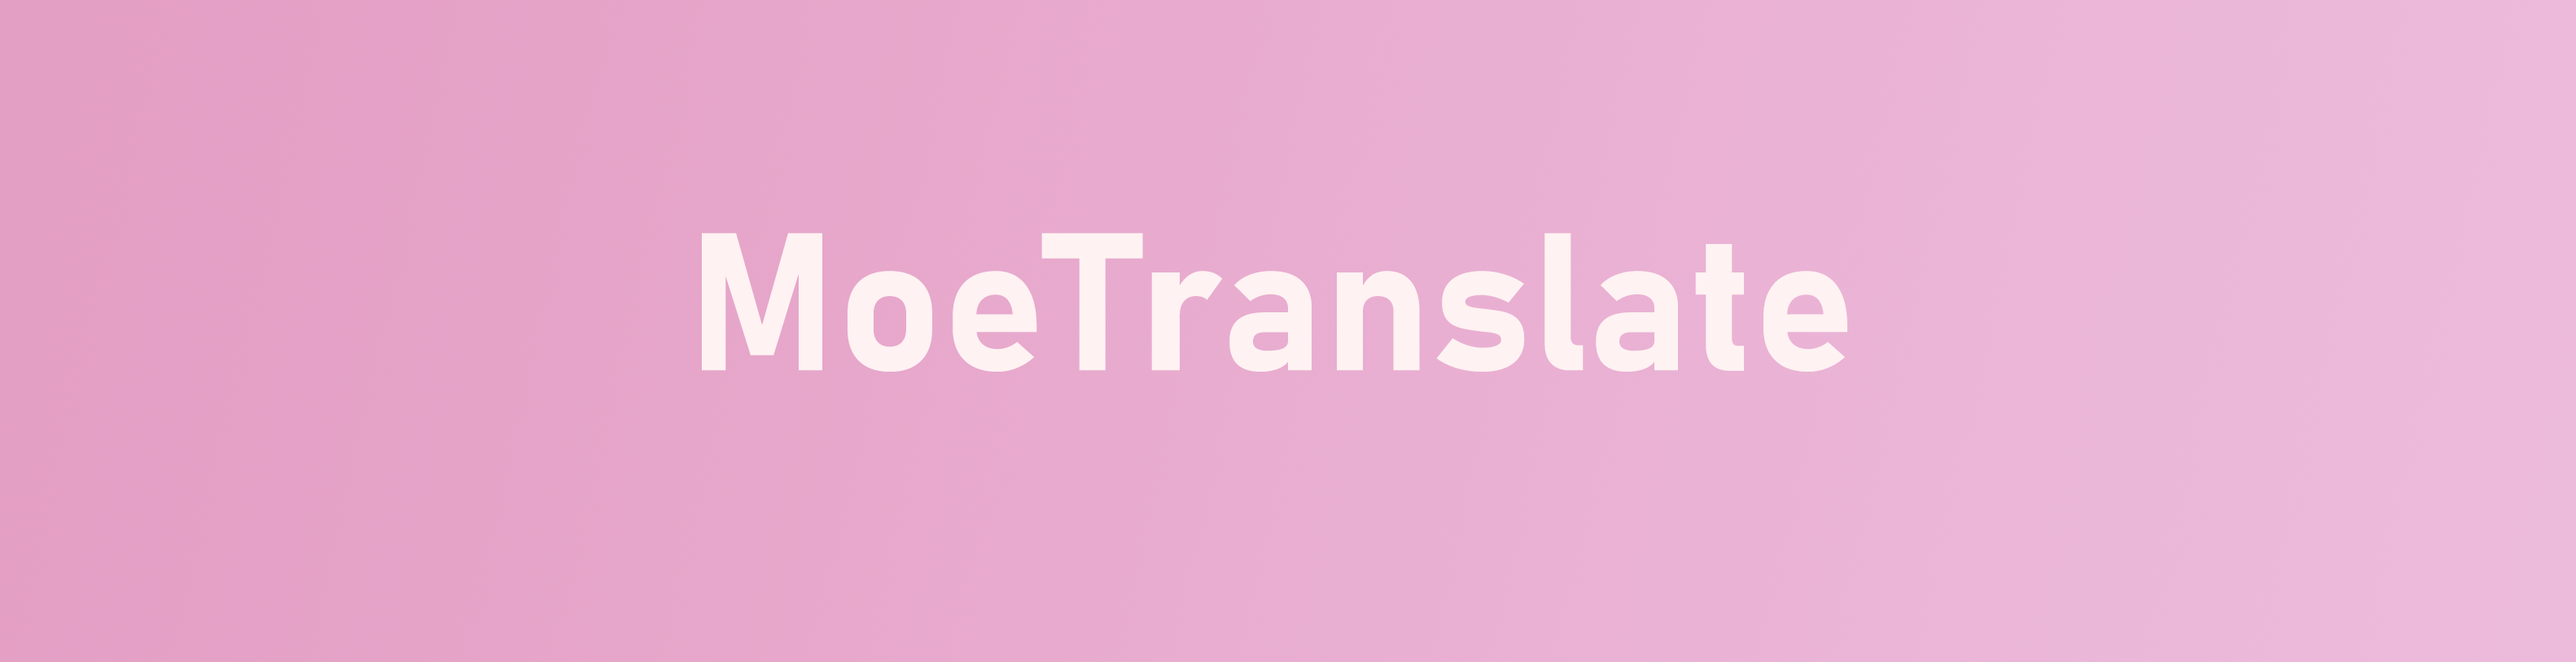
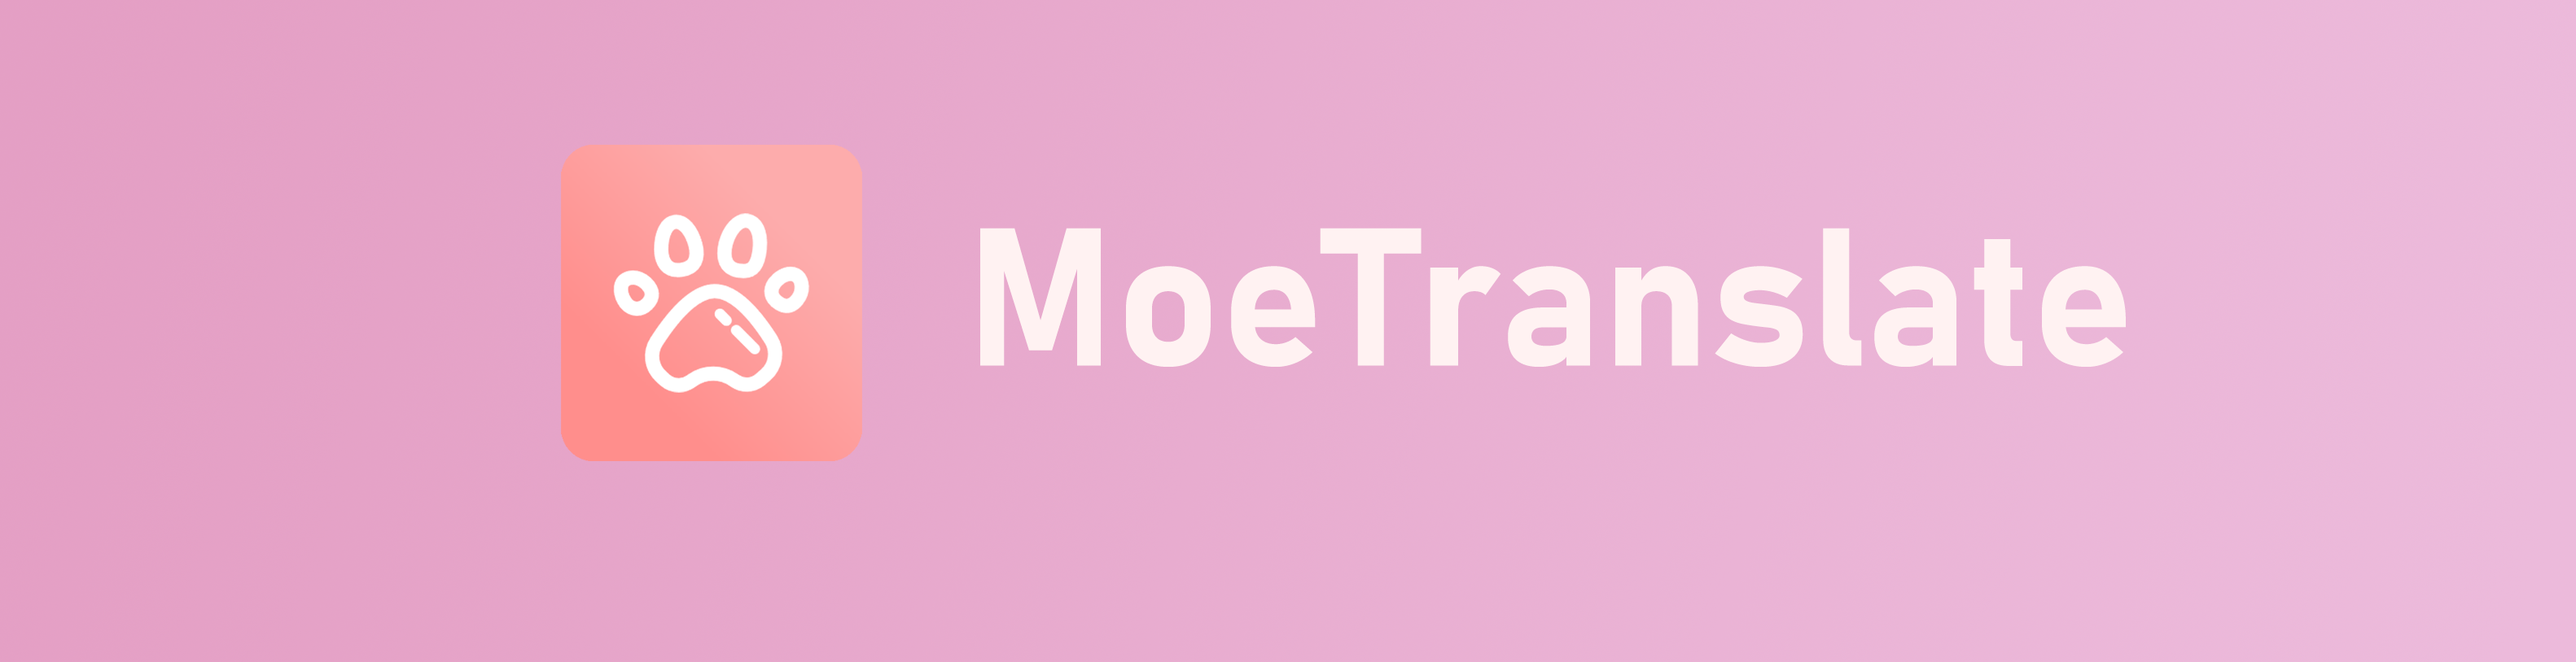
Read Me Update(Not Finish)

Changed region(s): [[0.2168, 0.215, 0.8363, 0.7064]]

diff --git a/docs/docs/.vuepress/config.ts b/docs/docs/.vuepress/config.ts
@@ -12,14 +12,14 @@ export default defineUserConfig({
   lang: 'zh-CN',
   locales: {
     '/': {
-      title: '萌译',
+      title: '萌译 - MoeTranslate',
       lang: 'zh-CN',
-      description: 'An Android Translate App.',
+      description: '一键翻译图片文字内容，让您和非中文游戏的距离不再遥远；不仅如此，还支持Gemini聊天和Live2D。',
     },
     '/en/': {
       title: 'MoeTranslate',
       lang: 'en-US',
-      description: 'An Android Translate App.',
+      description: 'One-click translation of picture text content, so that the distance between you and non-Chinese games is no longer far; Not only that, but Gemini chat and Live2D are also supported.',
     },
   },
 

diff --git a/README.md b/README.md
@@ -1,6 +1,6 @@
-<div align="center">
 <img src="markdown/images/head-cover.png" alt="icon"/>
-<h1 align="center">萌译MoeTranslate</h1>
+
+# 萌译MoeTranslate
 
 一键翻译图片文字内容，让您和非中文游戏的距离不再遥远；不仅如此，还支持Gemini聊天和Live2D。
 
@@ -12,20 +12,93 @@
 
 ## 简介
 
-萌译一款安卓端的翻译软件，基于Android 11的无障碍截图权限开发。
+萌译是一款安卓端的翻译软件，基于Android 11+的无障碍截图权限开发。
+
+<img src="markdown/images/display.png"/>
 
 支持两种模式：
 
-- **本地OCR识别+文字翻译：**通过ML Kit实现本地OCR识别，然后将识别到的文字使用特定API进行翻译。
+- **本地OCR识别+文本翻译：** 通过ML Kit实现**本地**OCR识别（支持的源语言有中文、日文、英文），然后将识别到的文字使用特定API进行翻译，获取翻译结果。
   
-- **直接上传图片进行翻译：**将截图直接上次给特定API，获取翻译结果。
+- **直接上传图片进行翻译：** 将截图直接上传给特定API，获取翻译结果，适用于源语言不是中文、日文、英文的情况。
+
+## 一、翻译功能
+
+翻译是萌译的核心功能，对于上述两种模式，分别支持不同的API，每个API的申请方法在[萌译官网](https://www.moetranslate.top/)中都有详细的教程（视频教程、图文教程）。
+
+除此之外，您还可以**自定义API接口**来进行翻译，上述两种模式均支持自定义API接口，也就是说，**您可以在局域网内的电脑上搭建您喜欢的翻译服务（如：对接GPT、搭建Sakura本地翻译模型），然后通过萌译在手机上享受这些服务带来的便利**。这种方法需要您掌握一定的编程知识和计算机网络知识，在萌译官网上有一些简易的[搭建教程](https://www.moetranslate.top/docs/translationapi/customtext/)。
+
+### 1、使用方法
+
+简易的使用方法介绍如下图所示，更详细的使用方法在您初次使用App时会有详细的介绍。
+
+<img src="markdown/images/menu.png"/>
+
+<img src="markdown/images/use.png"/>
+
+### 2、预置API介绍
+
+<img src="markdown/images/API.png"/>
+
+- **本地OCR识别+文本翻译：** 这是比较推荐的一种翻译方式，预置支持的API有：
+
+> **ML Kit翻译：** 属于本地AI翻译。除了第一次使用需下载模型（约100MB）外，其余时间可离线使用。搭配本地OCR识别，可实现全程离线翻译。值得注意的是，由于该模型体积很小，因此翻译质量较低，适合特殊情况下使用。
+翻译质量：★（1星）
+
+> **NLLB翻译：** 属于本地AI翻译。除了第一次使用需下载模型（约1GB）外，其余时间可离线使用。搭配本地OCR识别，可实现全程离线翻译。该模型相较于前者，翻译质量有所提升，支持的目标语言也更多，但受限于手机端算力，翻译质量相较于在线API差距仍然很大。
+ 翻译质量：★★（2星）
+
+> **必应翻译：** 属于在线翻译API。这是唯一一个不需要提前配置API Key即可使用的在线翻译方式。其实现原理是通过模拟浏览器访问网页的行为来实现翻译，依赖于网页结构和token提取，这是非常不规范的行为，稳定性较差。也正因为如此，萌译无法保证它随时可用。该方法翻译质量尚可，不过由于它实现方式的特殊性，还是适合特殊情况下使用。
+翻译质量：★★★★（4星）
+
+> **小牛翻译：** 属于在线翻译API。需要提前配置API Key方可使用。注册后即可享受**每天20万字符的免费调用额度**，一般用户足够使用。API申请方法也非常简单，翻译质量很高，综合考虑的不二之选。
+[申请教程](https://www.moetranslate.top/docs/translationapi/niutrans/)
+翻译质量：★★★★★（5星）
+
+> **火山引擎：** 属于在线翻译API。需要提前配置API Key方可使用。这是字节跳动旗下的翻译API，注册后即可享受**每月200万字符的免费调用额度**，一般用户足够使用。API申请方法相比小牛翻译要复杂一些，翻译质量较高。
+[申请教程](https://www.moetranslate.top/docs/translationapi/volc/)
+翻译质量：★★★★✬（4.5星）
+
+> **Azure AI 翻译：** 属于在线翻译API。需要提前配置API Key方可使用。这是微软旗下的翻译API，实际上就是必应翻译的API版，注册后即可享受**每月200万字符的免费调用额度**，一般用户足够使用。API申请方法比较复杂，翻译质量尚可。
+[申请教程](https://www.moetranslate.top/docs/translationapi/azure/)
+翻译质量：★★★★（4星）
+
+> **百度翻译：** 属于在线翻译API。需要提前配置API Key方可使用。注册后即可享受**每月100万字符的免费调用额度**，一般用户足够使用。API申请方法比较简单，翻译质量一般。
+[申请教程](https://www.moetranslate.top/docs/translationapi/baidu/)
+翻译质量：★★★✬（3.5星）
+
+> **腾讯云：** 属于在线翻译API。需要提前配置API Key方可使用。注册后即可享受**每月500万字符的免费调用额度**，免费额度很大。API申请方法稍微复杂一些，翻译质量很一般。
+[申请教程](https://www.moetranslate.top/docs/translationapi/tencent/)
+翻译质量：★★★（3星）
+
+- **直接上传图片进行翻译：** 直接把截图上传给设定的API来翻译，预置支持的API有：
+
+> **百度翻译：** 属于在线翻译API。需要提前配置API Key方可使用。注册后即可享受**每月1万次的图片翻译免费调用次数**，一般用户足够使用。API申请方法比较简单，和上面的文字翻译相比，带来的质量提升主要在OCR的精准度上。
+[申请教程](https://www.moetranslate.top/docs/translationapi/baidu/)
+翻译质量：★★★★（4星）
+
+> **腾讯云：** 属于在线翻译API。需要提前配置API Key方可使用。注册后即可享受**每月1万次的图片翻译免费调用次数**，一般用户足够使用。API申请方法稍微复杂一些，由于腾讯云的图片翻译仅支持单行翻译，因此当一句话多于一行时，会造成翻译严重不正确的情况。
+[申请教程](https://www.moetranslate.top/docs/translationapi/tencent/)
+翻译质量：★★（2星）
+
+## 二、其他功能
+
+### 1、Live 2D模型查看
+
+<img src="markdown/images/l2d.png"/>
+
+得益于[Live 2D的SDK](https://www.live2d.com/sdk/about/)，萌译支持导入Live 2D模型，并自动解析模型附带的动作和表情，然后用户可选择特定的动作和表情播放，实现随时随地欣赏Live 2D角色。
+
+具体的教程可[点击此处](https://www.moetranslate.top/docs/live2d/importmodel/)查看。
+
+\*图中的鹿目圆模型来自魔法纪录，在此仅作为预置模型展示软件功能，版权归原作者所有。
+
+### 2、Gemini AI聊天
+
+<img src="markdown/images/gemini.png"/>
+
+Google的Gemini正处于全民公测阶段，而且实际上Gemini模型的实力不俗，刚好其[Gemini-1.5 Flash](https://ai.google.dev/pricing#1_5flash)的API有免费方案可以使用，因此我们可获取API后在萌译中和其进行聊天。值得注意的是中国大陆用户需开启VPN后使用。
 
 
-
-
-
-![cover](markdown/images/cover1.png)
-
-![cover](markdown/images/cover2.png)
 
 </div>
